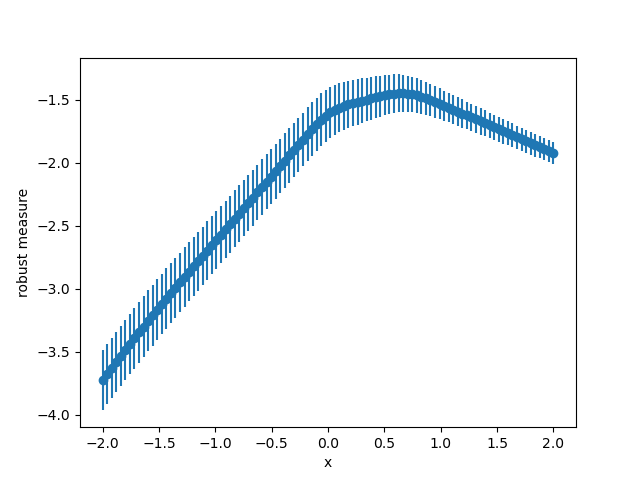
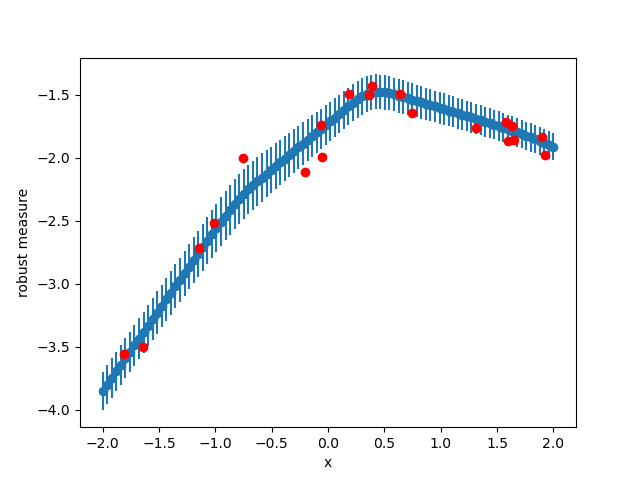
Same accuracy with  nevergrad
- Supposed to be better for noisy optimization, but gives same performance as scipy.minimize with method Powell. May scale better with more dimensions though

diff --git a/sensitivity/opttest_1_1.py b/sensitivity/opttest_1_1.py
@@ -9,6 +9,7 @@ from scipy.optimize import minimize
 import sys
 import pickle
 from matplotlib import pyplot as plt
+import nevergrad as ng
 
 verbose = False
 ROBUST_SAMPLES = 10
@@ -110,13 +111,15 @@ def robust_measure(x, num_samples=100):
     return -maxima # Negate bc botorch maximizes by default, we're looking for min
 
 # Generate Training Data
-train_x = torch.empty(NUM_TRAIN, 1)
-train_x.uniform_(-2,2)
-#train_x.uniform_(-3,3)
-#train_x = torch.vstack([torch.empty(10,1).uniform_(-2,2), torch.empty(100,1).uniform_(0,1)])
-train_y  = robust_measure(train_x, num_samples=ROBUST_SAMPLES)
-torch.save(train_x, 'train_x_1')
-torch.save(train_y, 'train_y_1')
+#train_x = torch.empty(NUM_TRAIN, 1)
+#train_x.uniform_(-2,2)
+##train_x.uniform_(-3,3)
+##train_x = torch.vstack([torch.empty(10,1).uniform_(-2,2), torch.empty(100,1).uniform_(0,1)])
+#train_y  = robust_measure(train_x, num_samples=ROBUST_SAMPLES)
+#torch.save(train_x, 'train_x_1')
+#torch.save(train_y, 'train_y_1')
+train_x = torch.load('train_x_1', weights_only=True)
+train_y = torch.load('train_y_1', weights_only=True)
 
 def gaussian_nll(y_pred_mean, y_pred_logvar, y_true):
     # Gaussian negative log-likelihood (per element)
@@ -187,39 +190,40 @@ print('test acq:\n', acquisition(torch.tensor([[[0.45]]])),'\n')
 print('test acq:\n', acquisition(torch.tensor([[[-2.]]])),'\n')
 #sys.exit()
 
-def optimize_acqf_custom(acq_func, bounds, raw_samples=100):
+def optimize_acqf_custom(acq_func, bounds, budget=100, num_workers=1):
+    """
+    Optimizes a (potentially noisy) acquisition function using Nevergrad.
+
+    Args:
+        acq_func: Callable acquisition function (returns torch tensor of shape [1])
+        bounds: torch.tensor of shape [2, dim] representing lower and upper bounds
+        budget: Total number of function evaluations allowed
+        num_workers: Number of workers (evaluations can be parallelized)
+
+    Returns:
+        best_x_optimized: torch.tensor of shape [dim] with best found candidate
+    """
     dim = bounds.shape[1]
 
-    # Generate raw samples using uniform sampling
-    raw_candidates = torch.rand((raw_samples, dim)) * (bounds[1] - bounds[0]) + bounds[0]
-    raw_values = acq_func(raw_candidates).detach().numpy()
-    #print(f'raw_candidates:\n{raw_candidates}')
-
-    # Select the best raw candidate as a starting point
-    best_raw_idx = np.argmax(raw_values)
-    best_x = raw_candidates[best_raw_idx].clone()
-    #print(f"max approx f(x) = {np.max(raw_values)} at x = {best_x}")
+    # Convert bounds to numpy arrays for Nevergrad
+    lower = bounds[0].numpy()
+    upper = bounds[1].numpy()
 
     def objective(x):
-        """Objective function for scipy.optimize (negate log-EI for maximization)."""
         x_torch = torch.tensor(x, dtype=torch.float32).unsqueeze(0)
-        return -acq_func(x_torch).item()  # Negative since scipy minimizes
+        return -acq_func(x_torch).item()  # Negate since we minimize
 
-    # Bounds for scipy optimizer
-    scipy_bounds = [(bounds[0, i].item(), bounds[1, i].item()) for i in range(dim)]
+    # Set up Nevergrad instrumentation
+    parametrization = ng.p.Array(shape=(dim,)).set_bounds(lower, upper)
 
-    # Optimize using L-BFGS-B
-    res = minimize(
-        fun=objective,
-        x0=best_x.numpy(),
-        bounds=scipy_bounds,
-        #method="L-BFGS-B",
-        method="Powell",
-    )
-    #print(res)
+    # Choose a noise-friendly optimizer (TwoPointsDE works well)
+    optimizer = ng.optimizers.TwoPointsDE(parametrization=parametrization, budget=budget, num_workers=num_workers)
 
-    # Convert result back to tensor
-    best_x_optimized = torch.tensor(res.x, dtype=torch.float32)
+    # Run the optimization
+    recommendation = optimizer.minimize(objective)
+
+    # Convert best result to torch tensor
+    best_x_optimized = torch.tensor(recommendation.value, dtype=torch.float32)
 
     return best_x_optimized
 
@@ -228,8 +232,7 @@ all_candidates = torch.empty(num_candidates)
 for i, _ in enumerate(range(num_candidates)):
     # Optimize Acquisition Function to Propose Next Query Point
     bounds = torch.tensor([[-2.0], [2.0]])
-    candidate = optimize_acqf_custom(acquisition, bounds,  raw_samples=RAW_SAMPLES)
+    candidate = optimize_acqf_custom(acquisition, bounds)
     print(f"candidate optimum: {candidate.item()}")
     all_candidates[i] = candidate
-print(all_candidates)
 print(f'mean candidate: {torch.mean(all_candidates)}')
